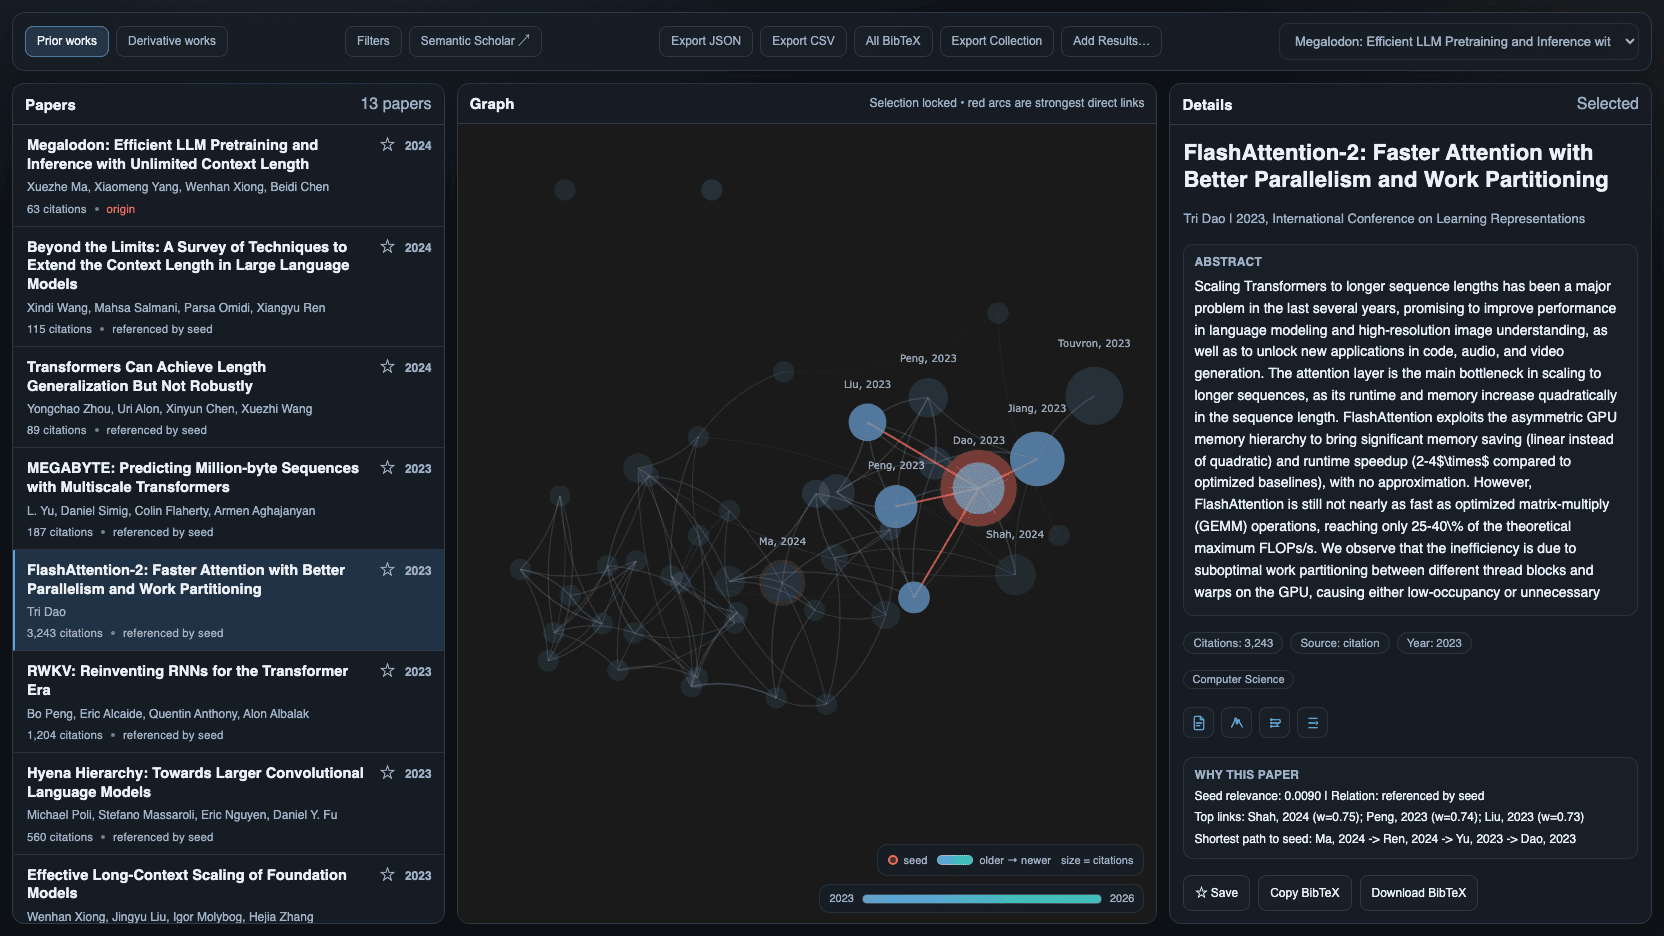
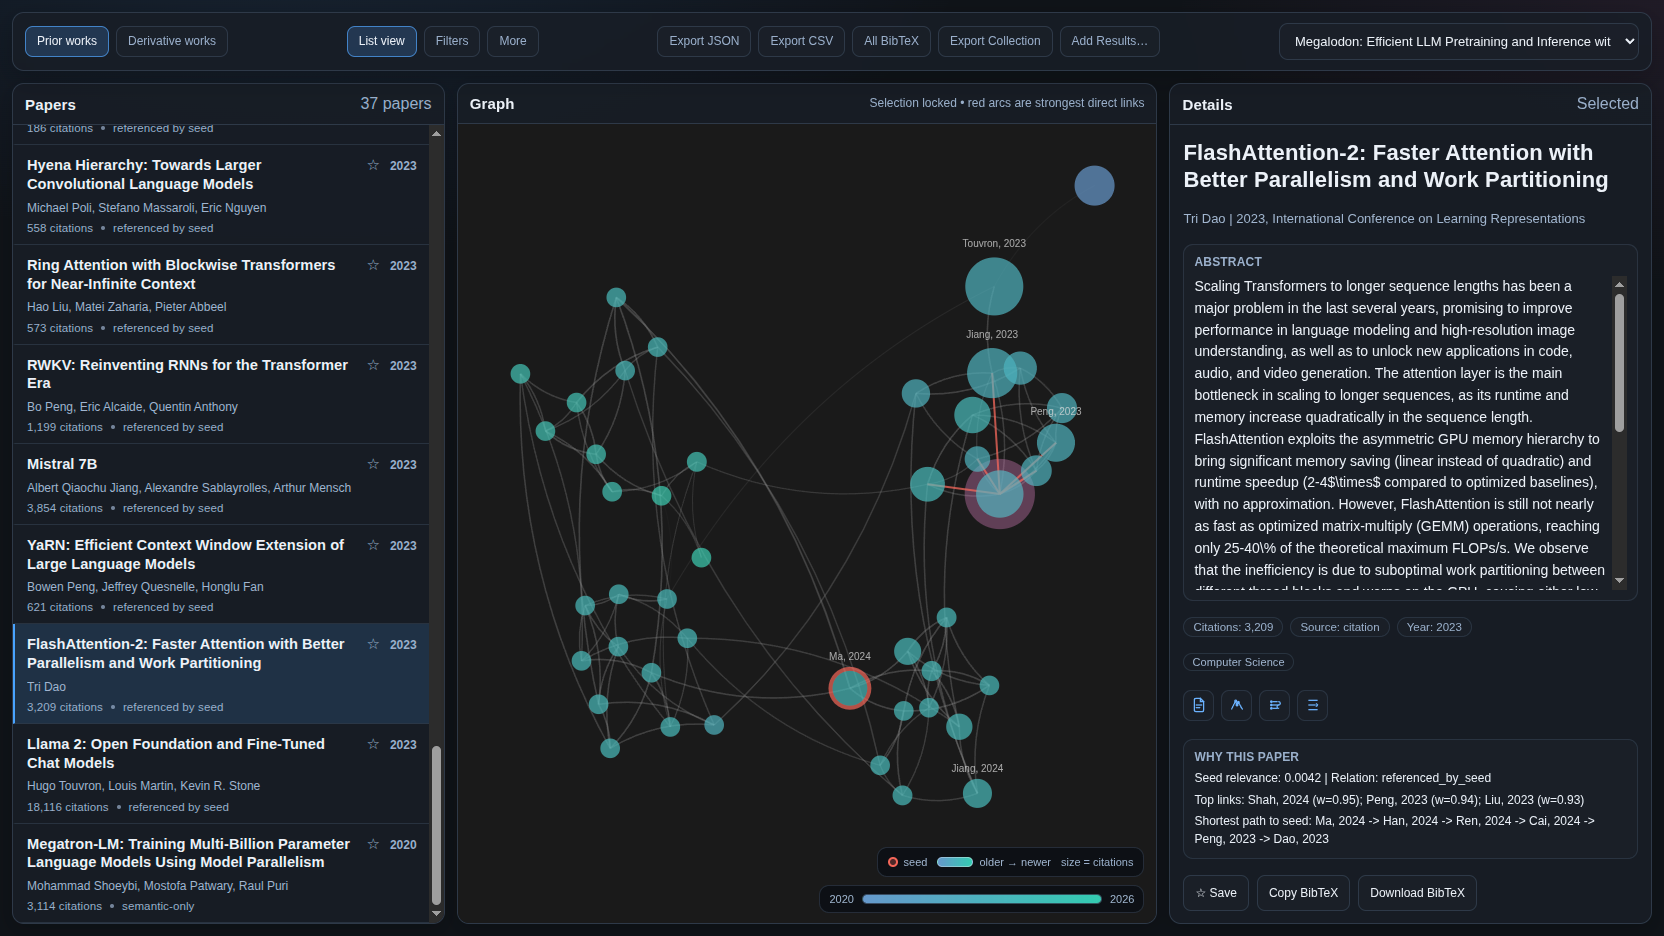
docs(assets): keep the corpus-built Megalodon hero until it is rebuilt with the full index
The hero and prior-works screenshots were built on a machine with a fully hydrated arXiv corpus index, which is where their semantic-only papers (LM-Infinite) come from. The candidates-mode rebuild on this machine has no corpus and yields a pure citation graph, so the original captures are restored and the caption now says the graph was built over a corpus index. Both shots still show the pre-fix toolbar labels and should be re-shot on the corpus machine after this branch lands.

diff --git a/README.md b/README.md
@@ -4,9 +4,9 @@ CiteMesh turns one paper you already know into a graph of the research around it
 
 It runs locally from a single CLI with four switchable strategies — recommendation, citation, embedding, and hybrid — and exports the same graph to every format you might want.
 
-![CiteMesh dashboard showing a Megalodon hybrid graph with Ring Attention selected](assets/ui.png)
+![CiteMesh dashboard showing a Megalodon hybrid graph with LM-Infinite selected](assets/ui.png)
 
-_A hybrid graph seeded by “Megalodon,” with “Ring Attention” selected to expose its relation to the seed and the shortest path between them (45 papers, 102 links)._
+_A hybrid graph seeded by “Megalodon” over a full arXiv corpus index, with “LM-Infinite” selected to expose its semantic relation and shortest path to the seed (45 papers, 108 links)._
 
 ## What you get
 
